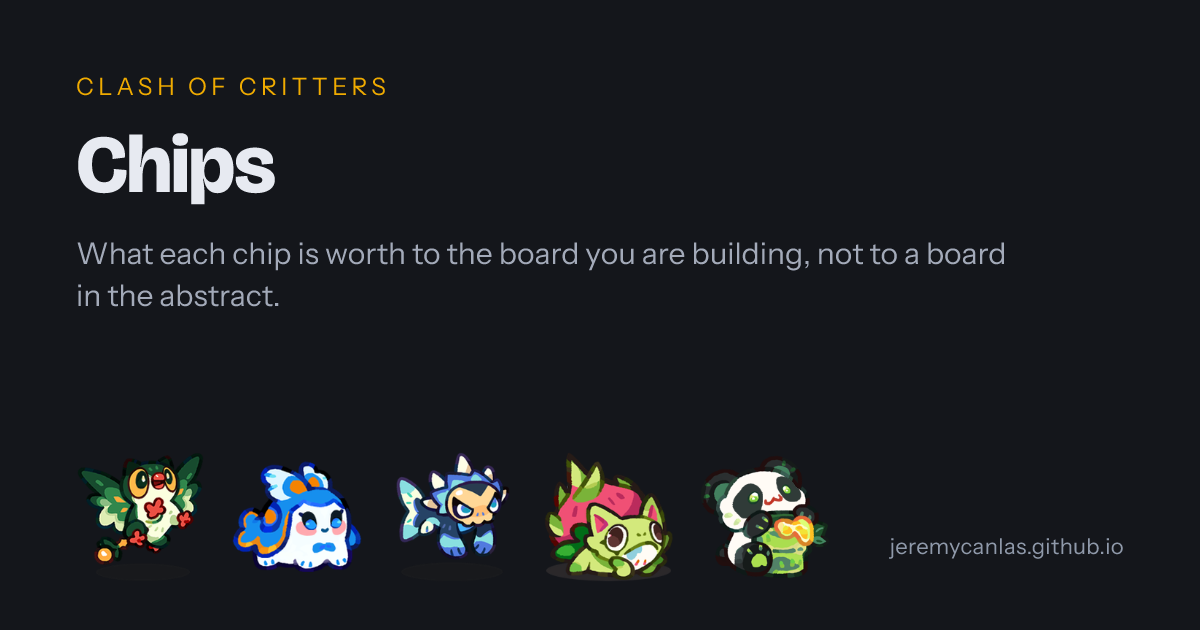
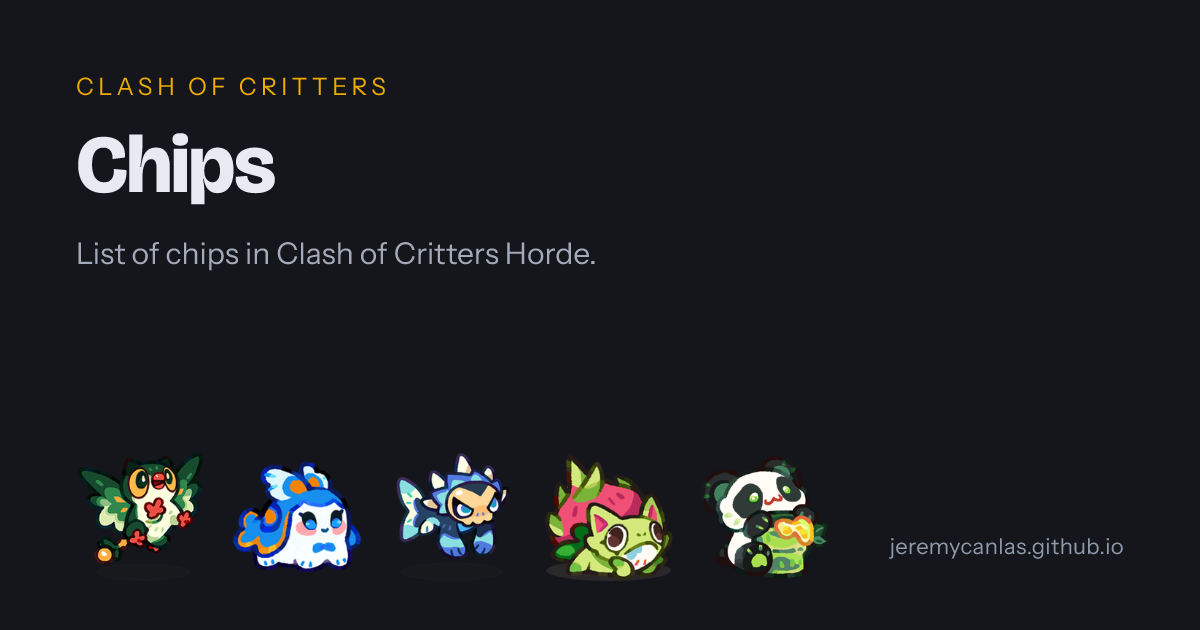
Chips card: a list of chips, said plainly
Claude-Session: https://claude.ai/code/session_01LEvAnnaT5a4WkG3Ujaz21i

Changed region(s): [[0.0617, 0.3921, 0.8325, 0.4222], [0.0617, 0.4524, 0.2467, 0.4825]]

diff --git a/chips.html b/chips.html
@@ -20,7 +20,7 @@
   <meta property="og:type" content="website">
   <meta property="og:site_name" content="Horde Drafter">
   <meta property="og:title" content="Chips">
-  <meta property="og:description" content="What each chip is worth to the board you are building, not to a board in the abstract.">
+  <meta property="og:description" content="List of chips in Clash of Critters Horde.">
   <meta property="og:url" content="https://jeremycanlas.github.io/clash-of-critters-horde-planner/chips.html">
   <meta property="og:image" content="https://jeremycanlas.github.io/clash-of-critters-horde-planner/assets/img/og/chips.png">
   <meta property="og:image:width" content="1200">
